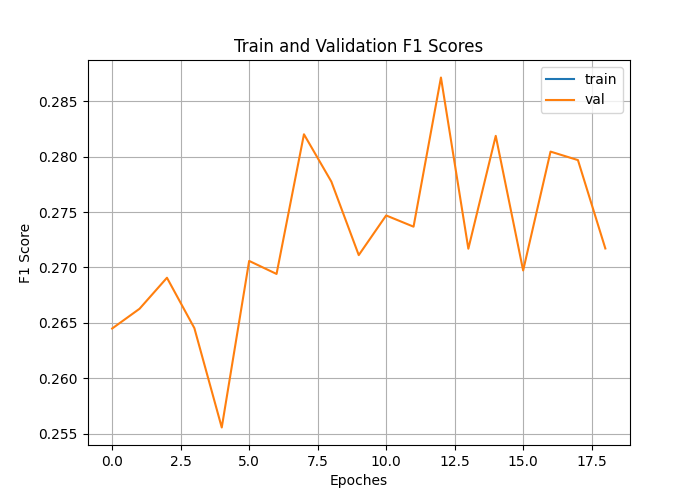
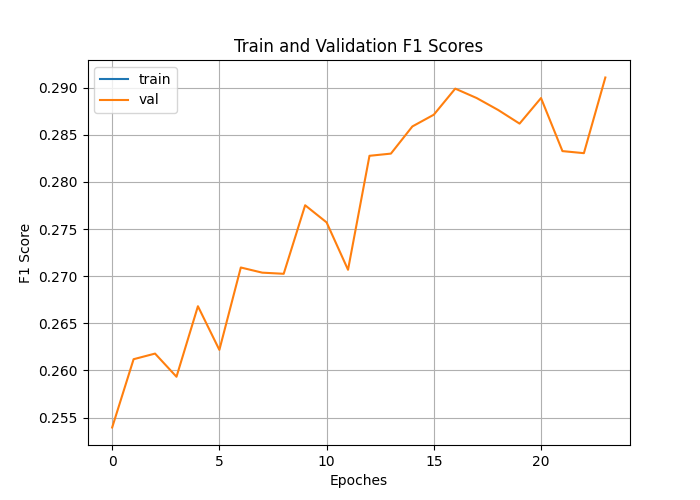
new record 2976 boom shakalaka

diff --git a/retrieval/retrieval_5_1_rl_train.py b/retrieval/retrieval_5_1_rl_train.py
@@ -120,9 +120,9 @@ def train():
     epsilon_decay = 0.99995
     batch_size = 32
     replay_capacity = 50000
-    lr = 1e-5
-    target_update = 5000
-    epochs = 40# 31 #24
+    lr = 2e-5
+    target_update = 1000 ############### PROVARE A DIMINUIRE
+    epochs = 90# 31 #24
     max_exp_loops = 1
     action_dim = 5
     dropout_p = 0
@@ -131,8 +131,8 @@ def train():
     per_beta = 0.4
     per_beta_increment = 0.001
     eta_min = 0.000001
-    neg_decay = 1
-    neg_decay_rate = 0.9
+    warm_up_epoches = 30
+    neg_schedule = torch.linspace(0.2, 1.0, steps=warm_up_epoches)**2
 
 
     es = EarlyStopping(patience=10, delta_ratio=0.001) #12? #15? #10?
@@ -146,7 +146,7 @@ def train():
     target_net.load_state_dict(online_net.state_dict())
     optimizer = optim.Adam(online_net.parameters(), lr=lr) #, weight_decay=1e-5)
 
-    scheduler = optim.lr_scheduler.CosineAnnealingLR(optimizer, T_max=200, eta_min=eta_min)
+    scheduler = optim.lr_scheduler.CosineAnnealingLR(optimizer, T_max=90, eta_min=eta_min)
       
     replay = PrioritizedReplayBuffer(
         capacity=replay_capacity, 
@@ -175,6 +175,10 @@ def train():
         print(f"Current Learning Rate: {current_lr:.6f}")
         logging.info(f"Epoch {epoch} - Learning Rate: {current_lr:.6f}")
 
+        if epoch < warm_up_epoches:
+            p = neg_schedule[epoch].item()
+            print(p)
+
         print(f"Epoch: {epoch}")
         for query_id in train_set:
             query = data.get_query_obj_from_id(query_id)
@@ -185,15 +189,14 @@ def train():
             relevant_chunks = query.get("relevant_chunks")
             ranked_chunks = data.cosine_sim_rank[str(query_id)] #ranked_chunks = data.get_ranked_with_prev_chunks_from_query_id(query_id)
 
-            # curriculum learning
-            # neg_decay *= neg_decay_rate
-            # ranked_chunks = [
-            #     c for c in ranked_chunks
-            #     if (c in relevant_chunks) or (torch.rand(1).item() < neg_decay)
-            # ]
-            if epoch > epochs/2 and not any(item in ranked_chunks for item in relevant_chunks):
+
+            ranked_chunks = [
+                c for c in ranked_chunks
+                if (c in relevant_chunks) or (torch.rand(1).item() < p)
+            ]
+            if epoch <= 30 and not any(item in ranked_chunks for item in relevant_chunks):
                 continue
-            
+
             logging.info(f"Epoch: {epoch}, Query: {query_desc}")
 
             topic = Topic(query_emb, page, ranked_chunks, relevant_chunks, max_exp_loops)
